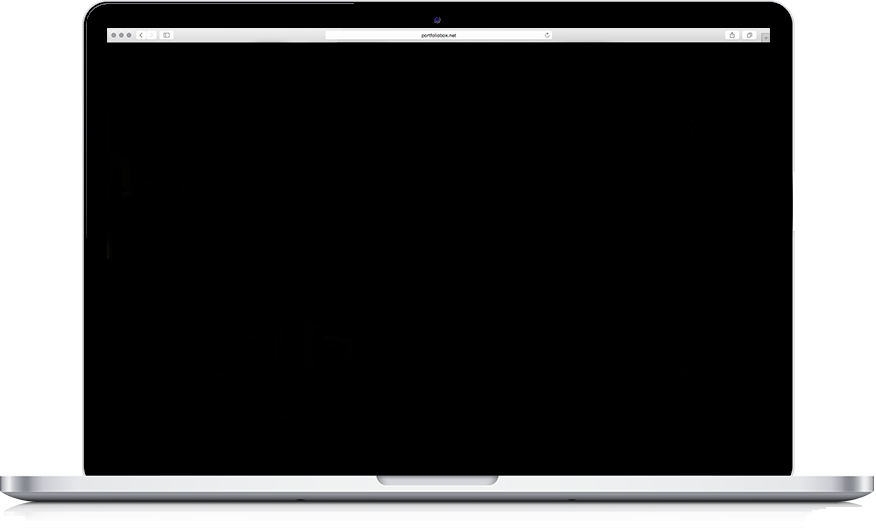
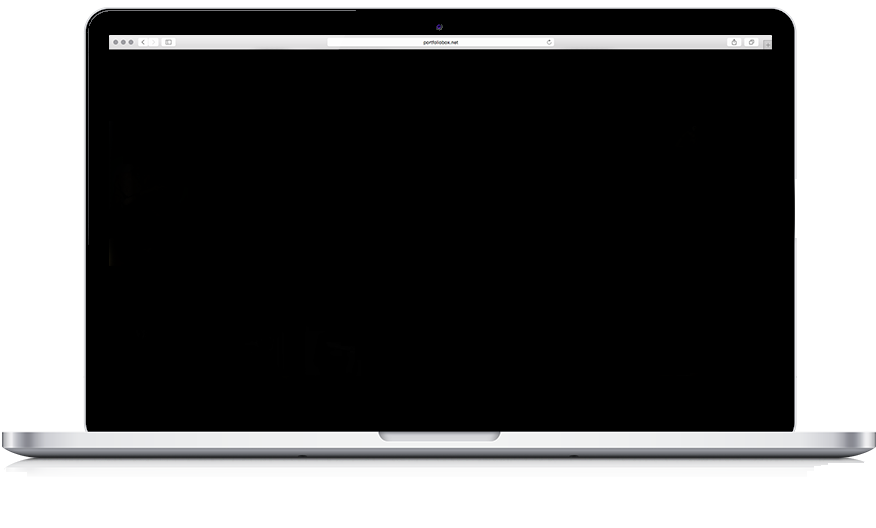
changes

Changed region(s): [[0.0, 0.0, 1.0, 0.9697]]

diff --git a/index.html b/index.html
@@ -163,16 +163,28 @@
             <div class="animated flipInY portfolioText"><strong> <center> PORTFOLIO <center> </strong></div> <br/>
             <table class="portfolioTable" style="width:80%; position: relative; left: 12.3%">
               <tr>
-                <td class="animated flipInY portfolioTimeM">TimeM</td>   
-                <td class="animated flipInY portfolioFlappyBirds">Flappy Birds</td>
-                <td class="animated flipInY portfolioFrogger">Frogger</td>  
-                <td class="animated flipInY portfolioImageManipulation"> Image Filter </td>
-                <td class="animated flipInY portfolioSpaceInvaders">Space Invaders</td>
+                <td class="animated flipInY portfolioTimeM" onclick="show('TimeM')">TimeM</td>   
+                <td class="animated flipInY portfolioFlappyBirds" onclick="show('flappyBirds')">Flappy Birds</td>
+                <td class="animated flipInY portfolioFrogger" onclick="show('frogger')">Frogger</td>  
+                <td class="animated flipInY portfolioImageManipulation" onclick="show('imageFilter')"> Image Filter </td>
+                <td class="animated flipInY portfolioSpaceInvaders" onclick="show('spaceInvaders')">Space Invaders</td>
               </tr>
             </table>
             <div class="macbook">
                 <br/>
                 <img class="macbook" src="img/macbook.png"></img>
+                <!-- Images on the macbook -->
+                <img id="timemPicture" style="display:none" src="img/timem.png"></img>
+                <!-- NEED TO FIX TIMEM WEBSITE TO MAKE THIS WORK. -->
+                <!--<iframe id="timemPicture" style="display:none; height: 352px;" src="http://timem-teamsnap.rhcloud.com/landingpage.html">
+                  <p>Your browser does not support iframes.</p>
+                </iframe> -->
+            
+
+                <img id="flappyBirdsPicture" style="display:none" src="img/flappy_birds.png"></img>
+                <img id="froggerPicture" style="display:none" src="img/frogger.png"></img>
+                <img id="imageFilterPicture" style="display:none" src="img/image_manipulation.png"></img>
+                <img id="spaceInvadersPicture" style="display:none" src="img/space_invaders.png"></img>
             </div>
         </section>
         <section class="myStory">

diff --git a/css/app.css b/css/app.css
@@ -356,7 +356,7 @@ table.portfolioTable {
 
 .portfolioTimeM {
   font-family: "Ubuntu", Helvetica, Arial, sans-serif;
-  font-size: 4vh;
+  font-size: 3.5vh;
   padding: 20px;
 
 }
@@ -369,8 +369,8 @@ table.portfolioTable {
 
 .portfolioFrogger {
   font-family: "Ubuntu", Helvetica, Arial, sans-serif;
-  font-size: 4vh;
-  padding-left: 25px;
+  font-size: 3.5vh;
+  padding-left: 30px;
 }
 
 .portfolioFrogger:hover {
@@ -381,7 +381,7 @@ table.portfolioTable {
 
 .portfolioFlappyBirds {
   font-family: "Ubuntu", Helvetica, Arial, sans-serif;
-  font-size: 4vh;
+  font-size: 3.5vh;
 
 }
 
@@ -393,7 +393,7 @@ table.portfolioTable {
 
 .portfolioSpaceInvaders {
   font-family: "Ubuntu", Helvetica, Arial, sans-serif;
-  font-size: 4vh;
+  font-size: 3.5vh;
 }
 
 .portfolioSpaceInvaders:hover {
@@ -404,7 +404,7 @@ table.portfolioTable {
 
 .portfolioImageManipulation {
   font-family: "Ubuntu", Helvetica, Arial, sans-serif;
-  font-size: 4vh;
+  font-size: 3.5vh;
 }
 
 .portfolioImageManipulation:hover {
@@ -669,3 +669,40 @@ img.abhayvarshneyLogoIcon {
   height: 185px;
   white-space:nowrap;
 }
+
+/* MacBook Pictures */
+#timemPicture {
+  width: 51.75%;
+  position: relative;
+  top: -478px;
+  left: 24.3%;
+} 
+
+#flappyBirdsPicture {
+  width: 51.75%;
+  position: relative;
+  top: -478px;
+  left: 24.3%;
+}
+
+#froggerPicture {
+  width: 51.75%;
+  position: relative;
+  top: -478px;
+  left: 24.3%;
+}
+
+#imageFilterPicture {
+  width: 51.75%;
+  position: relative;
+  top: -478px;
+  left: 24.3%;
+}
+
+#spaceInvadersPicture {
+  width: 51.75%;
+  position: relative;
+  top: -478px;
+  left: 24.3%;
+}
+

diff --git a/js/main.js b/js/main.js
@@ -4,5 +4,26 @@ $(document).ready(function() {
 		$('body').addClass('loaded');
 		$('h1').css('color','#222222');
 	}, 3000);
-
 });
+
+function show(target){
+	//Remove all images before click
+	document.getElementById("timemPicture").style.display = "none";
+	document.getElementById("flappyBirdsPicture").style.display = "none";
+	document.getElementById("froggerPicture").style.display = "none";
+	document.getElementById("imageFilterPicture").style.display = "none";
+	document.getElementById("spaceInvadersPicture").style.display = "none";
+	//If user clicks...
+	if (target == "TimeM") {
+		document.getElementById("timemPicture").style.display = "";
+	} else if (target == "flappyBirds") {
+		document.getElementById("flappyBirdsPicture").style.display = "";
+	} else if (target == "frogger") {
+		document.getElementById("froggerPicture").style.display = "";
+	} else if (target == "imageFilter") {
+		document.getElementById("imageFilterPicture").style.display = "";
+	} else if (target == "spaceInvaders") {
+		document.getElementById("spaceInvadersPicture").style.display = "";
+	} else { 
+	}
+}
